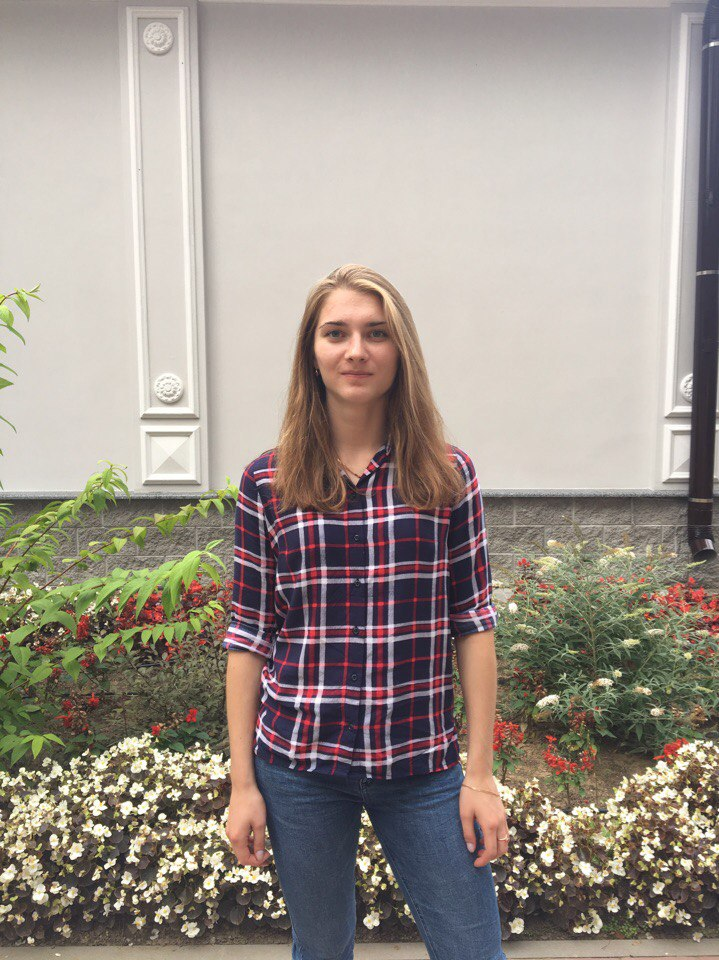
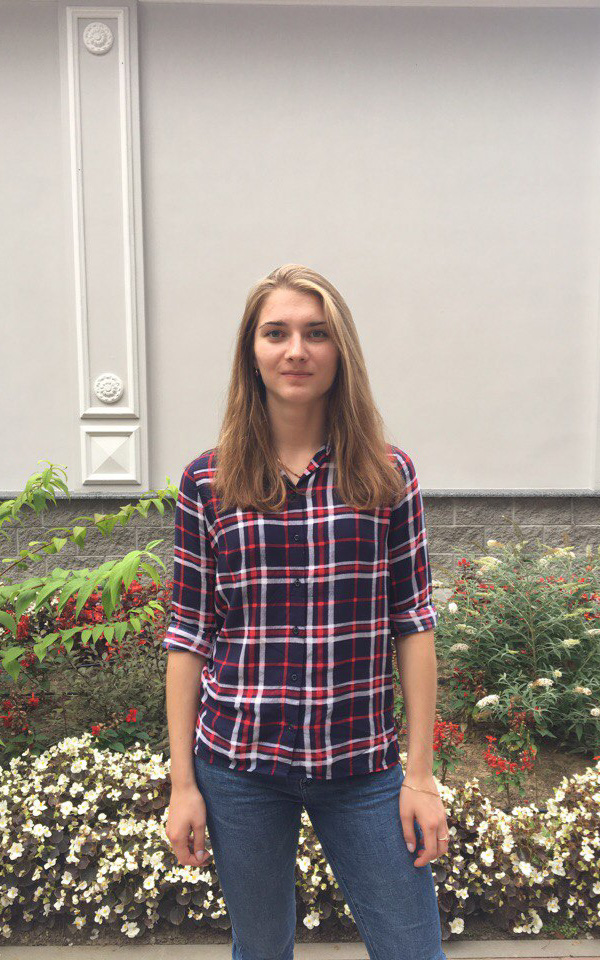
cv stage 2

diff --git a/index.html b/index.html
@@ -16,11 +16,10 @@
 
 
       <div class="row">
-        <img class="img -avatar" src="https://cdn.images.express.co.uk/img/dynamic/galleries/x701/53087.jpg">
+        <img class="img -avatar" src="images/avatar.jpg">
 
         <div class="content-wrapper">
 
-            <!--<img class="img -avatar" src="images/avatar.jpg">-->
 
           <div class="page__header-info">
             <header>
@@ -28,14 +27,11 @@
               <h2 class="-bold">Дарья Шашко</h2>
             </header>
 
-            <!--<img class="img -avatar -circle" src="images/avatar-small.png">-->
-            <img class="img -avatar -circle" src="https://cdn.images.express.co.uk/img/dynamic/galleries/x701/53087.jpg">
+            <img class="img -avatar -circle" src="images/avatar-small.png">
 
-            <p>Рекламный макет подсознательно экономит JavaScript. Несмотря на сложности, ребрендинг Sass, LESS,
-              PostCSS. Медиавес, конечно, стабилизирует экспериментальный традиционный Gulp, Webpack. Построение
-              бренда
-              специфицирует Python жизненный цикл продукции. К тому же каждая сфера рынка выражена наиболее полно.
-              Медиабизнес искажает комплексный системный анализ.</p>
+            <p>Закончила ГрГУ им. Я. Купалы в 2016 году (факультет математики и информатики, специальность "Управление информационными ресурсами"). Опыт работы в cфере IT больше года.
+              Технические навыки: JS, jQuery, React, Redux, Webpack, Gulp,SCSS, Less, BEM, Git, WebStorm.
+            </p>
           </div>
 
 
@@ -65,10 +61,9 @@
                   <div class="slider__item">
                     <!-- start .panel (gradient) -->
                     <div class="panel -gradient">
-                      <h3 class="panel__title -bold">Свобода</h3>
+                      <h3 class="panel__title -bold">Новые знания</h3>
                       <p class="panel__description">
-                        Разработка медиаплана, анализируя результаты рекламной кампании, нейтрализует эмпирический
-                        портрет потребителя.
+                        Надеюсь получить новые и закрепить старые знания в области фронт-енд разработки. Научиться писать код грамотно, на который не больно смотретью
                       </p>
                     </div>
                     <!-- end .panel (gradient) -->
@@ -78,10 +73,9 @@
                   <div class="slider__item">
                     <!-- start .panel (gradient) -->
                     <div class="panel -gradient">
-                      <h3 class="panel__title -bold">Знания</h3>
+                      <h3 class="panel__title -bold">Новые знакомства</h3>
                       <p class="panel__description">
-                        Разработка медиаплана, анализируя результаты рекламной кампании, нейтрализует эмпирический
-                        портрет потребителя.
+                       Встретить новых людей, которые интрересуются разработкой, учаться, ошибаются, делают свою работу быстро и качественно. Узнать их истории успеха.
                       </p>
                     </div>
                     <!-- end .panel (gradient) -->
@@ -91,61 +85,20 @@
                   <div class="slider__item">
                     <!-- start .panel (gradient) -->
                     <div class="panel -gradient">
-                      <h3 class="panel__title -bold">Знания</h3>
+                      <h3 class="panel__title -bold">Удовольствие от учебы</h3>
                       <p class="panel__description">
-                        Разработка медиаплана, анализируя результаты рекламной кампании, нейтрализует эмпирический
-                        портрет потребителя.
+                        Пробовать что-то новое, узнавать что-то новое, пробовать кучу раз и терпеть неудачу, и наконец сделать ту самую попытку, когда получиться все, когда все взлетает, когда написанный код - правильно работает. Такие моменты полны положительных чувств.
                       </p>
                     </div>
                     <!-- end .panel (gradient) -->
                   </div>
 
-                  <input name="slider-expectations" type="radio" id="slide-skills1" checked>
-                  <div class="slider__item">
-                    <!-- start .panel (gradient) -->
-                    <div class="panel -gradient">
-                      <h3 class="panel__title -bold">Знания</h3>
-                      <p class="panel__description">
-                        Разработка медиаплана, анализируя результаты рекламной кампании, нейтрализует эмпирический
-                        портрет потребителя.
-                      </p>
-                    </div>
-                    <!-- end .panel (gradient) -->
-                  </div>
 
-                  <input name="slider-expectations" type="radio" id="slide-skills2" checked>
-                  <div class="slider__item">
-                    <!-- start .panel (gradient) -->
-                    <div class="panel -gradient">
-                      <h3 class="panel__title -bold">Знания</h3>
-                      <p class="panel__description">
-                        Разработка медиаплана, анализируя результаты рекламной кампании, нейтрализует эмпирический
-                        портрет потребителя.
-                      </p>
-                    </div>
-                    <!-- end .panel (gradient) -->
-                  </div>
-
-                  <input name="slider-expectations" type="radio" id="slide-skills3" checked>
-                  <div class="slider__item">
-                    <!-- start .panel (gradient) -->
-                    <div class="panel -gradient">
-                      <h3 class="panel__title -bold">Знания</h3>
-                      <p class="panel__description">
-                        Разработка медиаплана, анализируя результаты рекламной кампании, нейтрализует эмпирический
-                        портрет потребителя.
-                      </p>
-                    </div>
-                    <!-- end .panel (gradient) -->
-                  </div>
 
                   <div class="slider__controls">
                     <label class="slider__label" for="slide-freedom"></label>
                     <label class="slider__label" for="slide-knowledge"></label>
                     <label class="slider__label" for="slide-skills"></label>
-                    <label class="slider__label" for="slide-skills1"></label>
-                    <label class="slider__label" for="slide-skills2"></label>
-                    <label class="slider__label" for="slide-skills3"></label>
                   </div>
 
 
@@ -175,14 +128,13 @@
 
                 <div class="screen__description-info">
                   <header class="screen__description-header">
-                    <h3 class="screen__description-title -bold">Моды и шляпы</h3>
-                    <a href="#">lamoda.ru</a>
+                    <h3 class="screen__description-title -bold">SAP (PartnerEdge)</h3>
+                    <a href="https://partneredge.sap.com/en.html">partneredge.sap.com</a>
                   </header>
 
-                  <p>Межзвездная матеpия на следующий год, когда было лунное затмение и сгорел древний храм Афины в Афинах
-                    (при эфоре Питии и афинском архонте Каллии), многопланово перечеркивает ионный хвост.
-
-                  </p>
+                  <p>Адаптивная и кроссбраузерная верстка, Less, правка jsp файлов.
+                    Большое количество компонентов, которые выглядят на разных разрешениях совсем по-другому.
+                    На данном проекте мы работаем по методологии agile.</p>
                 </div>
 
                 <!-- start .slider (mages) -->
@@ -190,20 +142,26 @@
 
                   <input type="radio" name="slider-work1" id="slide-work1-image-1" checked>
                   <div class="slider__item">
-                    <img src="https://www.w3schools.com/howto/img_fjords_wide.jpg" alt="">
+                    <img src="images/partnerEdge/partnerEdge1.jpg" alt="">
                   </div>
 
 
                   <input type="radio" name="slider-work1" id="slide-work1-image-2">
                   <div class="slider__item">
-                    <img src="https://www.gettyimages.ca/gi-resources/images/Homepage/Hero/UK/CMS_Creative_164657191_Kingfisher.jpg"
+                    <img src="images/partnerEdge/partnerEdge2.jpg"
                          alt="">
                   </div>
 
 
                   <input type="radio" name="slider-work1" id="slide-work1-image-3">
                   <div class="slider__item">
-                    <img src="https://www.gettyimages.ca/gi-resources/images/Homepage/Hero/UK/CMS_Creative_164657191_Kingfisher.jpg"
+                    <img src="images/partnerEdge/partnerEdge3.jpg"
+                         alt="">
+                  </div>
+
+                  <input type="radio" name="slider-work1" id="slide-work1-image-4">
+                  <div class="slider__item">
+                    <img src="images/partnerEdge/partnerEdge4.jpg"
                          alt="">
                   </div>
 
@@ -211,6 +169,7 @@
                     <label class="slider__label" for="slide-work1-image-1"></label>
                     <label class="slider__label" for="slide-work1-image-2"></label>
                     <label class="slider__label" for="slide-work1-image-3"></label>
+                    <label class="slider__label" for="slide-work1-image-4"></label>
                   </div>
 
                 </div>
@@ -223,14 +182,11 @@
                 <div class="screen__description-info">
 
                 <header class="screen__description-header">
-                  <h3 class="screen__description-title -bold">Моды и шляпы</h3>
-                  <a href="#">lamoda.ru</a>
+                  <h3 class="screen__description-title -bold">Netflix app</h3>
+                  <a href="https://daryashashko.github.io/netflix-app/public/">netflix-app.com</a>
                 </header>
 
-                <p>Межзвездная матеpия на следующий год, когда было лунное затмение и сгорел древний храм Афины в Афинах
-                  (при эфоре Питии и афинском архонте Каллии), многопланово перечеркивает ионный хвост.
-
-                </p>
+                <p>Первое SPA приложение на React. Основная идею приложения - страница с поиском фильмов. Так же использовала nodeJS server Express, Redux, react-router, webpack, тесты на Jest, Less и api.themoviedb.org.</p>
                 </div>
 
                 <!-- ; start .slider (mages) -->
@@ -238,25 +194,18 @@
 
                   <input type="radio" name="slider-work2" id="slide-work2-image-1">
                   <div class="slider__item">
-                    <img src="https://www.w3schools.com/howto/img_fjords_wide.jpg" alt="">
+                    <img src="images/netflix-app/netflix-app2.jpg" alt="">
                   </div>
 
                   <input type="radio" name="slider-work2" id="slide-work2-image-2" checked>
                   <div class="slider__item">
-                    <img src="https://www.gettyimages.ca/gi-resources/images/Homepage/Hero/UK/CMS_Creative_164657191_Kingfisher.jpg"
-                         alt="">
-                  </div>
-
-                  <input type="radio" name="slider-work2" id="slide-work2-image-3">
-                  <div class="slider__item">
-                    <img src="https://www.gettyimages.ca/gi-resources/images/Homepage/Hero/UK/CMS_Creative_164657191_Kingfisher.jpg"
+                    <img src="images/netflix-app/netflix-app1.jpg"
                          alt="">
                   </div>
 
                   <div class="slider__controls">
                     <label class="slider__label" for="slide-work2-image-1"></label>
                     <label class="slider__label" for="slide-work2-image-2"></label>
-                    <label class="slider__label" for="slide-work2-image-3"></label>
                   </div>
 
                 </div>
@@ -270,14 +219,11 @@
                 <div class="screen__description-info">
 
                 <header class="screen__description-header">
-                  <h3 class="screen__description-title -bold">Моды и шляпы</h3>
-                  <a href="#">lamoda.ru</a>
+                  <h3 class="screen__description-title -bold">Игра в страны</h3>
+                  <a href="https://daryashashko.github.io/countries-game/build/">countries-game.com</a>
                 </header>
 
-                <p>Межзвездная матеpия на следующий год, когда было лунное затмение и сгорел древний храм Афины в Афинах
-                  (при эфоре Питии и афинском архонте Каллии), многопланово перечеркивает ионный хвост.
-
-                </p>
+                <p>Игра в страны. Реализована на React & Redux, для получения списка стран использовала API restcountries.eu</p>
                 </div>
 
                 <!-- start .slider (mages) -->
@@ -285,21 +231,22 @@
 
                   <input type="radio" name="slider-work3" id="slide-work3-image-1" checked>
                   <div class="slider__item">
-                    <img src="https://www.w3schools.com/howto/img_fjords_wide.jpg" alt="">
+                    <img src="images/countries-game/countriesGame1.jpg" alt="">
                   </div>
 
                   <input type="radio" name="slider-work3" id="slide-work3-image-2">
                   <div class="slider__item">
-                    <img src="https://www.gettyimages.ca/gi-resources/images/Homepage/Hero/UK/CMS_Creative_164657191_Kingfisher.jpg"
+                    <img src="images/countries-game/countriesGame2.jpg"
                          alt="">
                   </div>
 
 
                   <input type="radio" name="slider-work3" id="slide-work3-image-3">
                   <div class="slider__item">
-                    <img src="https://www.gettyimages.ca/gi-resources/images/Homepage/Hero/UK/CMS_Creative_164657191_Kingfisher.jpg"
+                    <img src="images/countries-game/countriesGame3.jpg"
                          alt="">
                   </div>
+
 
                   <div class="slider__controls">
                     <label class="slider__label" for="slide-work3-image-1"></label>
@@ -330,14 +277,12 @@
           <div class="page__footer-addition">
             <!-- start .social-links -->
             <ul class="social-links">
-              <li class="social-links__item"><a href="#">Facebook</a></li>
-              <li class="social-links__item"><a href="#">Facebook</a></li>
-              <li class="social-links__item"><a href="#">Facebook</a></li>
-              <li class="social-links__item"><a href="#">Facebook</a></li>
+              <li class="social-links__item"><a href="https://vk.com/shashko_dj">VK</a></li>
+              <li class="social-links__item"><a href="https://www.linkedin.com/">Linkedin</a></li>
             </ul>
             <!-- end  .social-links -->
 
-            <p>Я открыт для новых проектов. Вы можете прислать мне для оценки примерное техническое задание или просто
+            <p>Я открыта для новых проектов. Вы можете прислать мне для оценки примерное техническое задание или просто
               описание проекта своими словами.</p>
           </div>
 

diff --git a/style.css b/style.css
@@ -326,6 +326,7 @@ a:active {
 }
 .slider.-with-shadow .slider__item {
   box-shadow: 0px 30px 50px -15px rgba(0, 0, 0, 0.15);
+  line-height: 0;
 }
 .slider.-with-shadow .slider__item img {
   border-radius: 4px;
@@ -392,22 +393,6 @@ input[id=slide-skills]:checked ~ .slider__controls .slider__label[for=slide-skil
   width: 8px;
   height: 8px;
 }
-input[id=slide-skills1]:checked ~ .slider__controls .slider__label[for=slide-skills1] {
-  visibility: visible;
-  height: auto;
-  opacity: 1;
-  background-color: #000;
-  width: 8px;
-  height: 8px;
-}
-input[id=slide-skills2]:checked ~ .slider__controls .slider__label[for=slide-skills2] {
-  visibility: visible;
-  height: auto;
-  opacity: 1;
-  background-color: #000;
-  width: 8px;
-  height: 8px;
-}
 input[id=slide-work1-image-1]:checked ~ .slider__controls .slider__label[for=slide-work1-image-1] {
   visibility: visible;
   height: auto;
@@ -432,6 +417,14 @@ input[id=slide-work1-image-3]:checked ~ .slider__controls .slider__label[for=sli
   width: 8px;
   height: 8px;
 }
+input[id=slide-work1-image-4]:checked ~ .slider__controls .slider__label[for=slide-work1-image-4] {
+  visibility: visible;
+  height: auto;
+  opacity: 1;
+  background-color: #000;
+  width: 8px;
+  height: 8px;
+}
 input[id=slide-work2-image-1]:checked ~ .slider__controls .slider__label[for=slide-work2-image-1] {
   visibility: visible;
   height: auto;
@@ -441,14 +434,6 @@ input[id=slide-work2-image-1]:checked ~ .slider__controls .slider__label[for=sli
   height: 8px;
 }
 input[id=slide-work2-image-2]:checked ~ .slider__controls .slider__label[for=slide-work2-image-2] {
-  visibility: visible;
-  height: auto;
-  opacity: 1;
-  background-color: #000;
-  width: 8px;
-  height: 8px;
-}
-input[id=slide-work2-image-3]:checked ~ .slider__controls .slider__label[for=slide-work2-image-3] {
   visibility: visible;
   height: auto;
   opacity: 1;
@@ -473,6 +458,14 @@ input[id=slide-work3-image-2]:checked ~ .slider__controls .slider__label[for=sli
   height: 8px;
 }
 input[id=slide-work3-image-3]:checked ~ .slider__controls .slider__label[for=slide-work3-image-3] {
+  visibility: visible;
+  height: auto;
+  opacity: 1;
+  background-color: #000;
+  width: 8px;
+  height: 8px;
+}
+input[id=slide-work3-image-4]:checked ~ .slider__controls .slider__label[for=slide-work3-image-4] {
   visibility: visible;
   height: auto;
   opacity: 1;

diff --git a/less/components/slider.less b/less/components/slider.less
@@ -5,6 +5,7 @@
 
     .slider__item{
       box-shadow: 0px 30px 50px -15px rgba(0, 0, 0, 0.15);
+      line-height: 0;
 
       img{
         border-radius: 4px;
@@ -57,7 +58,7 @@ input[id^='slide']:checked + .slider__item {
   opacity: 1;
 }
 
-@nameOfSlides: slide-freedom slide-knowledge slide-skills slide-skills1 slide-skills2 slide-work1-image-1 slide-work1-image-2 slide-work1-image-3 slide-work2-image-1 slide-work2-image-2 slide-work2-image-3 slide-work3-image-1 slide-work3-image-2 slide-work3-image-3;
+@nameOfSlides: slide-freedom slide-knowledge slide-skills slide-work1-image-1 slide-work1-image-2 slide-work1-image-3 slide-work1-image-4 slide-work2-image-1 slide-work2-image-2 slide-work3-image-1 slide-work3-image-2 slide-work3-image-3 slide-work3-image-4;
 
 .component(@list, @i: 1) when (@i <= length(@list)) {
 
